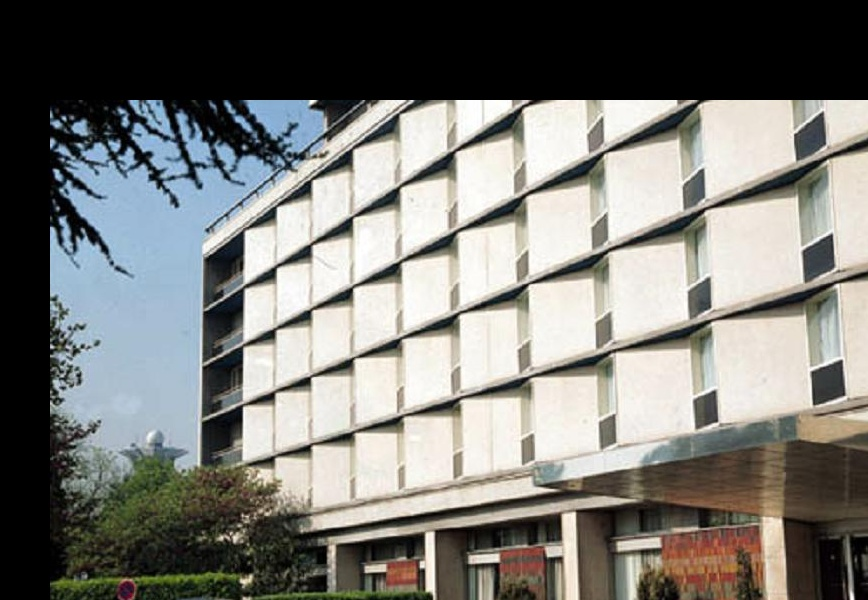
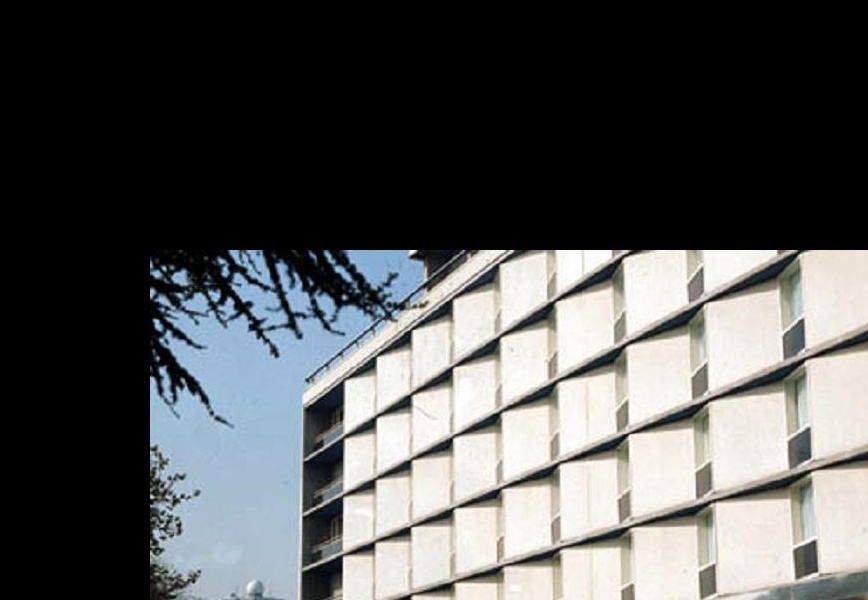
Increase scale in Exp 8 and Exp 10

diff --git a/run_and_save2.py b/run_and_save2.py
@@ -68,7 +68,8 @@ cv2.imwrite(get_out(7), dummy_webcam)
 
 # 8
 smaller = cv2.resize(img, (0,0), fx=0.5, fy=0.5)
-cv2.imwrite(get_out(8), smaller) # Just save one for the preview
+bigger = cv2.resize(img, (0,0), fx=3.0, fy=3.0)
+cv2.imwrite(get_out(8), bigger) # Just save one for the preview
 
 # 9
 (h, w) = img.shape[:2]
@@ -78,7 +79,7 @@ rotated_cw = cv2.warpAffine(img, M_cw, (w, h))
 cv2.imwrite(get_out(9), rotated_cw)
 
 # 10
-M_translate = np.float32([[1, 0, 50], [0, 1, 100]])
+M_translate = np.float32([[1, 0, 150], [0, 1, 250]])
 translated = cv2.warpAffine(img, M_translate, (w, h))
 cv2.imwrite(get_out(10), translated)
 
